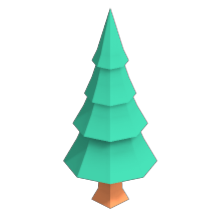
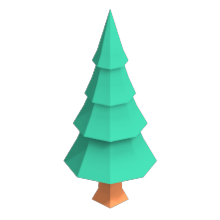
assets fixed

diff --git a/HonkPooper/HonkPooper/MainPage.xaml.cs b/HonkPooper/HonkPooper/MainPage.xaml.cs
@@ -138,8 +138,8 @@ namespace HonkPooper
 
         private void InputView_PointerPressed(object sender, PointerRoutedEventArgs e)
         {
-            Generator treeGenBottom = new(generationDelay: 50, generationAction: GenerateTreeBottom);
-            Generator treeGenTop = new(generationDelay: 50, generationAction: GenerateTreeTop);
+            Generator treeGenBottom = new(generationDelay: 40, generationAction: GenerateTreeBottom);
+            Generator treeGenTop = new(generationDelay: 40, generationAction: GenerateTreeTop);
 
             _scene.AddToScene(treeGenBottom);
             _scene.AddToScene(treeGenTop);

diff --git a/HonkPooper/HonkPooper/Constants.cs b/HonkPooper/HonkPooper/Constants.cs
@@ -13,7 +13,7 @@ namespace HonkPooper
 
         public static (ConstructType ConstructType, double Height, double Width)[] CONSTRUCT_SIZES = new (ConstructType, double, double)[]
         {
-             new (ConstructType.TREE, 200,200),
+             new (ConstructType.TREE, 150, 150),
         };
 
         public static (ConstructType ConstructType, Uri Uri)[] CONSTRUCT_TEMPLATES = new (ConstructType, Uri)[]
